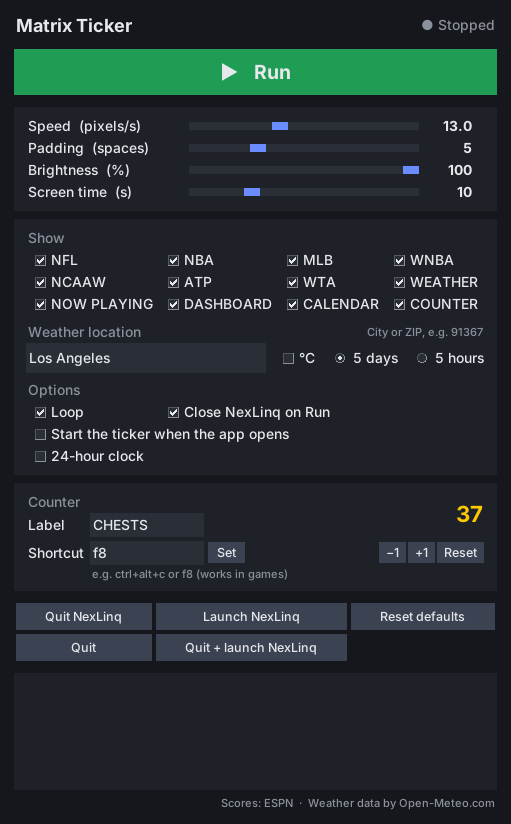
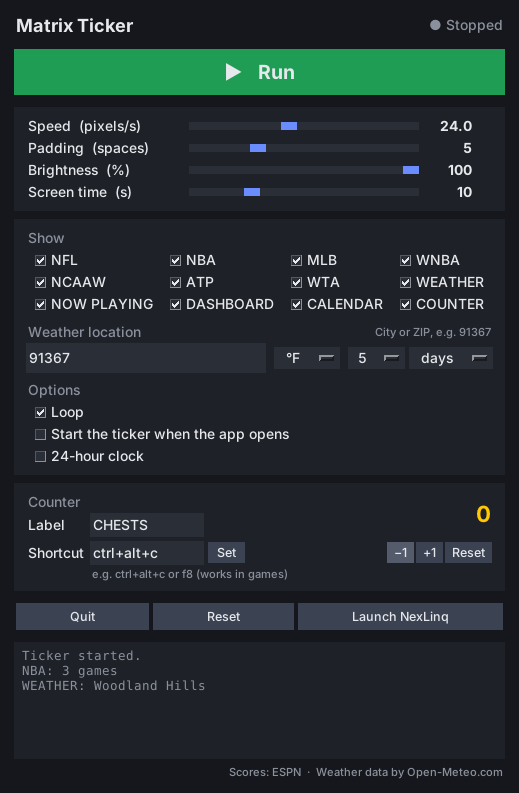
GUI: speed 24 default, dropdowns for units and weather count, counter options only when ticked, always close NexLinq, fewer buttons
- Speed defaults to 24 px/s; slider runs 6-48
- °F/°C dropdown; weather shows 1-14 days or 1-24 hours (main.py --count)
- Counter settings appear only when COUNTER is ticked
- NexLinq is always closed on Run if it's open (no option); skipped if not installed
- Buttons: Quit, Reset, Launch NexLinq

Claude-Session: https://claude.ai/code/session_01H3njHNDUQi74XPcFKKmD5S

diff --git a/gui.py b/gui.py
@@ -17,7 +17,7 @@ from tkinter import filedialog
 
 from matrix import nexlinq, scores
 from matrix.counter import Counter
-from matrix.ticker import ITEMS, WEATHER, ScrollTicker, Settings, restore_layout
+from matrix.ticker import COUNTER, ITEMS, WEATHER, ScrollTicker, Settings, restore_layout
 
 try:
     import pystray
@@ -91,7 +91,7 @@ class FlatButton(tk.Label):
 
 class App:
     SLIDERS = [  # attr, label, low, high, step, cast
-        ("speed", "Speed  (pixels/s)", 6, 24, 0.5, float),
+        ("speed", "Speed  (pixels/s)", 6, 48, 1, float),
         ("padding", "Padding  (spaces)", 1, 15, 1, int),
         ("brightness", "Brightness  (%)", 10, 100, 5, int),
         ("screen_seconds", "Screen time  (s)", 3, 30, 1, int),
@@ -105,7 +105,7 @@ class App:
 
         saved = load_cfg().get("gui", {})
         for key in ("speed", "padding", "brightness", "loop", "location", "units", "weather_mode",
-                    "screen_seconds", "clock_24h"):
+                    "weather_count", "screen_seconds", "clock_24h"):
             if key in saved:
                 setattr(self.settings, key, saved[key])
         if "leagues" in saved:
@@ -161,30 +161,32 @@ class App:
         tk.Entry(loc, textvariable=self.location, width=26, bg=TROUGH, fg=FG, insertbackground=FG,
                  relief="flat", font=FONT, highlightthickness=1, highlightbackground=TROUGH,
                  highlightcolor=SLIDER).pack(side="left", ipady=3)
-        self.celsius = tk.BooleanVar(value=self.settings.units == "C")
-        self._check(loc, "°C", self.celsius, self._location_changed).pack(side="left", padx=(8, 0))
-        self.wmode = tk.StringVar(value=self.settings.weather_mode)
-        for value, text in (("daily", "5 days"), ("hourly", "5 hours")):
-            tk.Radiobutton(loc, text=text, value=value, variable=self.wmode, command=self._location_changed,
-                           bg=PANEL, fg=FG, selectcolor=TROUGH, activebackground=PANEL, activeforeground=FG,
-                           highlightthickness=0, bd=0, font=FONT).pack(side="left", padx=(8, 0))
+        self.units = tk.StringVar(value="°" + self.settings.units)
+        self._dropdown(loc, self.units, ["°F", "°C"], 3).pack(side="left", padx=(8, 0))
+        self.wcount = tk.StringVar(value=str(self.settings.weather_count))
+        self.count_menu = self._dropdown(loc, self.wcount, [], 2)
+        self.count_menu.pack(side="left", padx=(8, 0))
+        self.wmode = tk.StringVar(value=self.WMODES_REV[self.settings.weather_mode])
+        self._dropdown(loc, self.wmode, list(self.WMODES), 5).pack(side="left", padx=(4, 0))
+        self._fill_counts()
+        for var in (self.units, self.wcount):
+            var.trace_add("write", lambda *_: self._location_changed())
+        self.wmode.trace_add("write", lambda *_: (self._fill_counts(), self._location_changed()))
         tk.Label(box2, text="City or ZIP, e.g. 91367", bg=PANEL, fg=MUTED, font=("Segoe UI", 8)).grid(
             row=r0, column=2, columnspan=2, sticky="e", pady=(6, 0))
         tk.Label(box2, text="Options", bg=PANEL, fg=MUTED, font=FONT).grid(row=r0 + 2, column=0, sticky="w", pady=(6, 0))
         self.loop = tk.BooleanVar(value=self.settings.loop)
-        self.close_nexlinq = tk.BooleanVar(value=saved.get("close_nexlinq", True))
         self.autorun = tk.BooleanVar(value=saved.get("autorun", False))
         self._check(box2, "Loop", self.loop, self._opts_changed).grid(row=r0 + 3, column=0, sticky="w")
-        self._check(box2, "Close NexLinq on Run", self.close_nexlinq, self._schedule_save).grid(
-            row=r0 + 3, column=1, columnspan=3, sticky="w")
         self._check(box2, "Start the ticker when the app opens", self.autorun, self._schedule_save).grid(
             row=r0 + 4, column=0, columnspan=4, sticky="w")
         self.h24 = tk.BooleanVar(value=self.settings.clock_24h)
         self._check(box2, "24-hour clock", self.h24, self._opts_changed).grid(row=r0 + 5, column=0, columnspan=4, sticky="w")
 
         # counter
-        box3 = tk.Frame(outer, bg=PANEL, padx=12, pady=8)
-        box3.pack(fill="x", pady=(8, 0))
+        self.counter_slot = tk.Frame(outer, bg=BG)       # keeps the counter box's place in the layout
+        self.counter_slot.pack(fill="x")
+        self.counter_box = box3 = tk.Frame(outer, bg=PANEL, padx=12, pady=8)   # made after, so it's drawn on top
         tk.Label(box3, text="Counter", bg=PANEL, fg=MUTED, font=FONT).grid(row=0, column=0, sticky="w")
         self.count_label = tk.Label(box3, text=str(self.counter.count), bg=PANEL, fg="#ffc800",
                                     font=("Segoe UI", 16, "bold"), width=5, anchor="e")
@@ -210,12 +212,10 @@ class App:
         # small buttons
         small = tk.Frame(outer, bg=BG)
         small.pack(fill="x", pady=(10, 0))
-        buttons = [("Quit NexLinq", self.quit_nexlinq), ("Launch NexLinq", self.launch_nexlinq),
-                   ("Reset defaults", self.reset_defaults), ("Quit", self.quit),
-                   ("Quit + launch NexLinq", self.quit_and_launch)]
+        buttons = [("Quit", self.quit), ("Reset", self.reset_defaults), ("Launch NexLinq", self.launch_nexlinq)]
         for i, (text, cmd) in enumerate(buttons):
             FlatButton(small, text, cmd, bg=ACCENT, padx=8, pady=4, font=("Segoe UI", 9)).grid(
-                row=i // 3, column=i % 3, sticky="ew", padx=2, pady=2)
+                row=0, column=i, sticky="ew", padx=2, pady=2)
         for c in range(3):
             small.columnconfigure(c, weight=1)
 
@@ -227,6 +227,7 @@ class App:
         tk.Label(outer, text="Scores: ESPN  ·  Weather data by Open-Meteo.com", bg=BG, fg=MUTED,
                  font=("Segoe UI", 8)).pack(anchor="e", pady=(4, 0))
 
+        self._show_counter_box()
         err = self.counter.listen()
         if err:
             self.log(err)
@@ -238,6 +239,34 @@ class App:
             root.after(800, self.toggle_run)
 
     # ---------- widgets ----------
+    WMODES = {"days": "daily", "hours": "hourly"}
+    WMODES_REV = {v: k for k, v in WMODES.items()}
+    COUNTS = {"daily": range(1, 15), "hourly": range(1, 25)}    # Open-Meteo gives 16 days ahead
+
+    def _dropdown(self, parent, var, choices, width):
+        m = tk.OptionMenu(parent, var, *(choices or [""]))
+        m.configure(bg=TROUGH, fg=FG, activebackground=ACCENT, activeforeground=FG, relief="flat", bd=0,
+                    highlightthickness=0, font=FONT, width=width, indicatoron=True, padx=6, pady=2)
+        m["menu"].configure(bg=TROUGH, fg=FG, activebackground=SLIDER, activeforeground=FG, bd=0, font=FONT)
+        return m
+
+    def _fill_counts(self):
+        """The number dropdown offers 1-14 days or 1-24 hours, depending on the mode."""
+        counts = self.COUNTS[self.WMODES[self.wmode.get()]]
+        menu = self.count_menu["menu"]
+        menu.delete(0, "end")
+        for n in counts:
+            menu.add_command(label=str(n), command=lambda n=n: self.wcount.set(str(n)))
+        if int(self.wcount.get() or 5) not in counts:
+            self.wcount.set(str(counts[-1]))
+
+    def _show_counter_box(self):
+        if self.league_vars[COUNTER].get():
+            self.counter_box.pack(in_=self.counter_slot, fill="x", pady=(8, 0))
+        else:
+            self.counter_box.pack_forget()
+            self.counter_slot.configure(height=1)    # an emptied frame keeps its old size otherwise
+
     def _slider(self, parent, row, attr, label, lo, hi, step, cast):
         tk.Label(parent, text=label, bg=PANEL, fg=FG, font=FONT, width=17, anchor="w").grid(row=row, column=0, sticky="w")
         var = tk.DoubleVar(value=getattr(self.settings, attr))
@@ -289,12 +318,14 @@ class App:
     # ---------- settings ----------
     def _leagues_changed(self):
         self.settings.leagues = [lg for lg, v in self.league_vars.items() if v.get()]
+        self._show_counter_box()
         self._schedule_save()
 
     def _location_changed(self):
         self.settings.location = self.location.get()
-        self.settings.units = "C" if self.celsius.get() else "F"
-        self.settings.weather_mode = self.wmode.get()
+        self.settings.units = self.units.get().lstrip("°")
+        self.settings.weather_mode = self.WMODES[self.wmode.get()]
+        self.settings.weather_count = int(self.wcount.get() or 5)
         self._schedule_save()
 
     def _opts_changed(self):
@@ -313,8 +344,9 @@ class App:
         cfg = load_cfg()
         s = self.settings
         cfg["gui"] = {"speed": s.speed, "padding": s.padding, "brightness": s.brightness,
-                      "leagues": s.leagues, "loop": s.loop, "close_nexlinq": self.close_nexlinq.get(),
+                      "leagues": s.leagues, "loop": s.loop,
                       "location": s.location, "units": s.units, "weather_mode": s.weather_mode,
+                      "weather_count": s.weather_count,
                       "autorun": self.autorun.get(), "screen_seconds": s.screen_seconds,
                       "clock_24h": s.clock_24h}
         with open(CONFIG_FILE, "w") as f:
@@ -328,10 +360,10 @@ class App:
         for lg, v in self.league_vars.items():
             v.set(lg in d.leagues)
         self.loop.set(d.loop)
-        self.close_nexlinq.set(True)
         self.autorun.set(False)
-        self.celsius.set(False)
-        self.wmode.set("daily")
+        self.units.set("°" + d.units)
+        self.wmode.set(self.WMODES_REV[d.weather_mode])
+        self.wcount.set(str(d.weather_count))
         self.h24.set(False)
         self._location_changed()
         self._leagues_changed()
@@ -387,7 +419,7 @@ class App:
     def _worker(self):
         panel = None
         try:
-            if self.close_nexlinq.get() and nexlinq.running():
+            if nexlinq.running():            # it fights over the panel; skipped if it isn't installed/open
                 self.log(nexlinq.quit_nexlinq())
             from matrix.transport import Matrix
             panel = Matrix()
@@ -410,9 +442,6 @@ class App:
         if self.thread and self.thread.is_alive():
             self.stop_event.set()
             self.thread.join(timeout=5)
-
-    def quit_nexlinq(self):
-        threading.Thread(target=lambda: self.log(nexlinq.quit_nexlinq()), daemon=True).start()
 
     def launch_nexlinq(self):
         self._stop_and_wait()
@@ -473,11 +502,6 @@ class App:
                 pass
         self._closed = True
         self.root.destroy()
-
-    def quit_and_launch(self):
-        self._stop_and_wait()
-        self.launch_nexlinq()
-        self.quit()
 
 
 def already_running():

diff --git a/matrix/weather.py b/matrix/weather.py
@@ -1,7 +1,7 @@
 """Weather from Open-Meteo (free, no API key, non-commercial use; credit: Open-Meteo.com).
 
-Two views: "daily" = now + today and the next 4 days (highs only);
-"hourly" = now + the next 5 hours. Both also show the next sunrise and sunset.
+Two views: "daily" = now + today and the following days (highs only);
+"hourly" = now + the next few hours (how many is a setting; 5 by default). Both also show the next sunrise and sunset.
 Everything comes from one cached request.
 
 Location can be a city ("Woodland Hills"), a postal code ("91367"), either with a
@@ -84,7 +84,7 @@ def forecast(location, units="F"):
         "daily": "weather_code,temperature_2m_max,precipitation_probability_max,sunrise,sunset",
         "hourly": "temperature_2m,weather_code,precipitation_probability,is_day",
         "temperature_unit": "fahrenheit" if units == "F" else "celsius",
-        "timezone": "auto", "forecast_days": 5,
+        "timezone": "auto", "forecast_days": 16,
     })
     _wx_cache[key] = (time.time(), data)
     return name, data
@@ -127,9 +127,10 @@ def _rain(segs, pct):
         segs.append((f" {round(pct)}%", RAIN))
 
 
-def segments(location, units="F", mode="daily"):
+def segments(location, units="F", mode="daily", count=5):
     """Colored segments for the scroll ticker.
-    daily: NOW + today and the next 4 days.  hourly: NOW + the next 5 hours."""
+    daily: NOW + today and the following days (count in all).  hourly: NOW + the next count hours."""
+    count = max(1, int(count))
     name, d = forecast(location, units)
     cur = d.get("current", {})
     segs = [(name.upper(), LABEL), (" : ", style.GRAY), ("NOW ", style.GRAY),
@@ -142,16 +143,17 @@ def segments(location, units="F", mode="daily"):
         times = h.get("time", [])
         now_hour = (cur.get("time") or "")[:13]          # e.g. "2026-11-17T17"
         start = next((i for i, t in enumerate(times) if t[:13] == now_hour), 0)
-        for i in range(start + 1, min(start + 6, len(times))):
+        for i in range(start + 1, min(start + 1 + count, len(times))):
             segs += [gap, (_hour_label(times[i]) + " ", style.GRAY),
                      (font.ICON_CHAR[_icon(h["weather_code"][i], h.get("is_day", [1] * len(times))[i])], None),
                      (f" {round(h['temperature_2m'][i])}°", style.WHITE)]
             _rain(segs, (h.get("precipitation_probability") or [None] * len(times))[i])
         return segs
     daily = d.get("daily", {})
-    for i, day in enumerate(daily.get("time", [])[:5]):
+    rain = daily.get("precipitation_probability_max") or []
+    for i, day in enumerate(daily.get("time", [])[:count]):
         label = "TODAY" if i == 0 else dt.date.fromisoformat(day).strftime("%a").upper()
         segs += [gap, (label + " ", style.GRAY), (font.ICON_CHAR[_icon(daily["weather_code"][i])], None),
                  (f" {round(daily['temperature_2m_max'][i])}°", HIGH)]
-        _rain(segs, (daily.get("precipitation_probability_max") or [None] * 5)[i])
+        _rain(segs, rain[i] if i < len(rain) else None)
     return segs

diff --git a/main.py b/main.py
@@ -175,7 +175,7 @@ def run_scroll(panel, args, leagues):
     settings = Settings(speed=args.speed, step=args.step, brightness=args.brightness,
                         padding=len(args.sep), leagues=leagues, loop=not args.once,
                         location=args.location, units="C" if args.celsius else "F",
-                        weather_mode="hourly" if args.hourly else "daily",
+                        weather_mode="hourly" if args.hourly else "daily", weather_count=args.count,
                         screen_seconds=args.screen_seconds, clock_24h=args.h24,
                         verbose=args.verbose, league_gap=args.league_gap)
     source = (lambda lg: DEMO.get(lg, [])) if args.demo else None
@@ -240,7 +240,8 @@ def main():
     ap.add_argument("--24h", dest="h24", action="store_true", help="24-hour clock on the dashboard")
     ap.add_argument("--location", default="", help='weather location: city, ZIP, "91367, US" or "lat,lon"')
     ap.add_argument("--celsius", action="store_true", help="weather in Celsius")
-    ap.add_argument("--hourly", action="store_true", help="weather: now + next 5 hours instead of 5 days")
+    ap.add_argument("--hourly", action="store_true", help="weather: hours ahead instead of days ahead")
+    ap.add_argument("--count", type=int, default=Settings.weather_count, help="weather: how many days/hours (default 5)")
     args = ap.parse_args()
 
     panel = None

diff --git a/matrix/ticker.py b/matrix/ticker.py
@@ -24,13 +24,14 @@ FLASH_SECONDS = 3.0
 
 @dataclass
 class Settings:
-    speed: float = 13.0            # pixels per second (about 10% slower than the first version)
+    speed: float = 24.0            # pixels per second
     padding: int = 5               # spaces between games
     brightness: int = 100          # percent
     leagues: list = field(default_factory=lambda: list(ITEMS))
     location: str = ""             # weather: city, ZIP, "91367, US" or "lat,lon"
     units: str = "F"               # weather: F or C
-    weather_mode: str = "daily"    # weather: "daily" (5 days) or "hourly" (next 5 hours)
+    weather_mode: str = "daily"    # weather: "daily" (days ahead) or "hourly" (hours ahead)
+    weather_count: int = 5         # how many days / hours to show
     screen_seconds: float = 10.0   # how long each static screen (dashboard, calendar, counter) stays
     clock_24h: bool = False
     loop: bool = True
@@ -160,7 +161,7 @@ class ScrollTicker:
                     self.log("Weather: no location set, skipping.")
                 return None
             try:
-                segs = weather.segments(self.s.location, self.s.units, self.s.weather_mode)
+                segs = weather.segments(self.s.location, self.s.units, self.s.weather_mode, self.s.weather_count)
             except Exception as e:
                 self.log(f"Weather: {e}")
                 return None

diff --git a/README.md b/README.md
@@ -11,7 +11,7 @@ Only games happening today show up.
 
 ![A full line of scores](docs/images/ticker-line.png)
 
-**Weather** for your city: right now, sunrise and sunset, then the next 5 days or the next 5 hours.
+**Weather** for your city: right now, sunrise and sunset, then the days or hours ahead (you pick how many).
 
 ![Current weather with sunrise and sunset](docs/images/weather-now.png)
 ![5-day forecast](docs/images/weather-days.png)
@@ -53,11 +53,11 @@ That's it. It can start with Windows and sits quietly by the clock.
 Everything you change is saved. Closing the window keeps it running in the
 **system tray** (the little icons by the clock). Right-click that icon to stop it or quit.
 
-**Counter:** type a label (like `CHESTS`) and a key (like `f8`), then click **Set**.
+**Counter:** tick **COUNTER**, type a label (like `CHESTS`) and a key (like `f8`), then click **Set**.
 Press that key anytime to add one; the display shows the new count for a few seconds.
 
 **NexLinq:** Phanteks' own app can't run at the same time, so Matrix Ticker closes it when you
-press Run. Use **Launch NexLinq** to bring it back.
+press Run (if it's open). You don't need it installed. Use **Launch NexLinq** to bring it back.
 
 <br clear="right">
 
@@ -65,8 +65,8 @@ press Run. Use **Launch NexLinq** to bring it back.
 
 | What you see | What to do |
 |---|---|
-| `Error: open failed` | The display isn't found. Check that it's plugged in, and click **Quit NexLinq**. |
-| `Is NexLinq still running?` | Click **Quit NexLinq**, then **Run** again. |
+| `Error: open failed` | The display isn't found. Check that it's plugged in and NexLinq is closed. |
+| `Is NexLinq still running?` | Close NexLinq (check the tray by the clock), then **Run** again. |
 | Weather `couldn't find ...` | Try your ZIP code, or add the country: `Springfield, US`. |
 | Nothing shows up | No games today? Tick **WEATHER** or **DASHBOARD** too. |
 | Counter key doesn't work in a game | Pick a key the game doesn't use, like `f8`. |

diff --git a/docs/DEVELOPMENT.md b/docs/DEVELOPMENT.md
@@ -14,7 +14,7 @@ From source, settings live in the project folder; the installed app uses `%APPDA
 ```
 python main.py --style scroll --preview --demo --nba               # terminal preview, sample data
 python main.py --style scroll --preview --weather --location 91367 # weather preview (add --hourly)
-python main.py --style scroll --speed 13 --brightness 80           # full-color ticker on the panel
+python main.py --style scroll --speed 24 --brightness 80           # full-color ticker on the panel
 python main.py --nba --once -v                                     # one sport, one pass, verbose
 python main.py                                                     # older single-color text style
 ```
@@ -23,7 +23,7 @@ Sport flags: `--nfl --nba --mlb --wnba --ncaaw --atp --wta --weather` (combine t
 Screens: `--dashboard --calendar --counter --nowplaying`, `--screen-seconds 10`, `--24h`.
 Preview example: `python main.py --style scroll --preview --dashboard --calendar --counter`.
 Scroll style: `--speed` (px/s), `--step`, `--brightness`, `--league-gap`, `--sep`.
-Weather: `--location`, `--hourly`, `--celsius`. Ctrl+C stops and restores `layouts/default.json`.
+Weather: `--location`, `--hourly`, `--count N`, `--celsius`. Ctrl+C stops and restores `layouts/default.json`.
 
 Text style only (the original single-color ticker using the panel's text widget):
 `--calibrate`, `--speed-scale`, `--page-buffer`, `config.json` `scale` / `live_bonus`.
